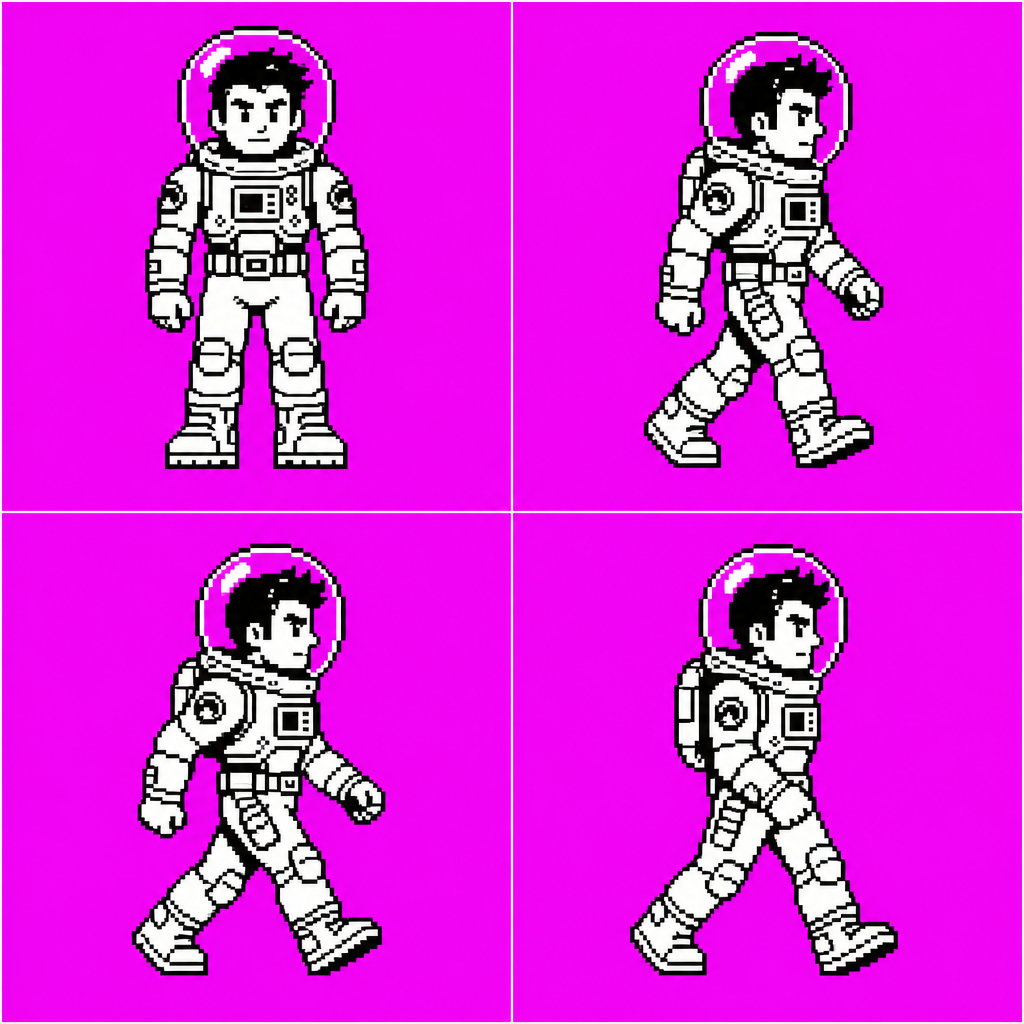
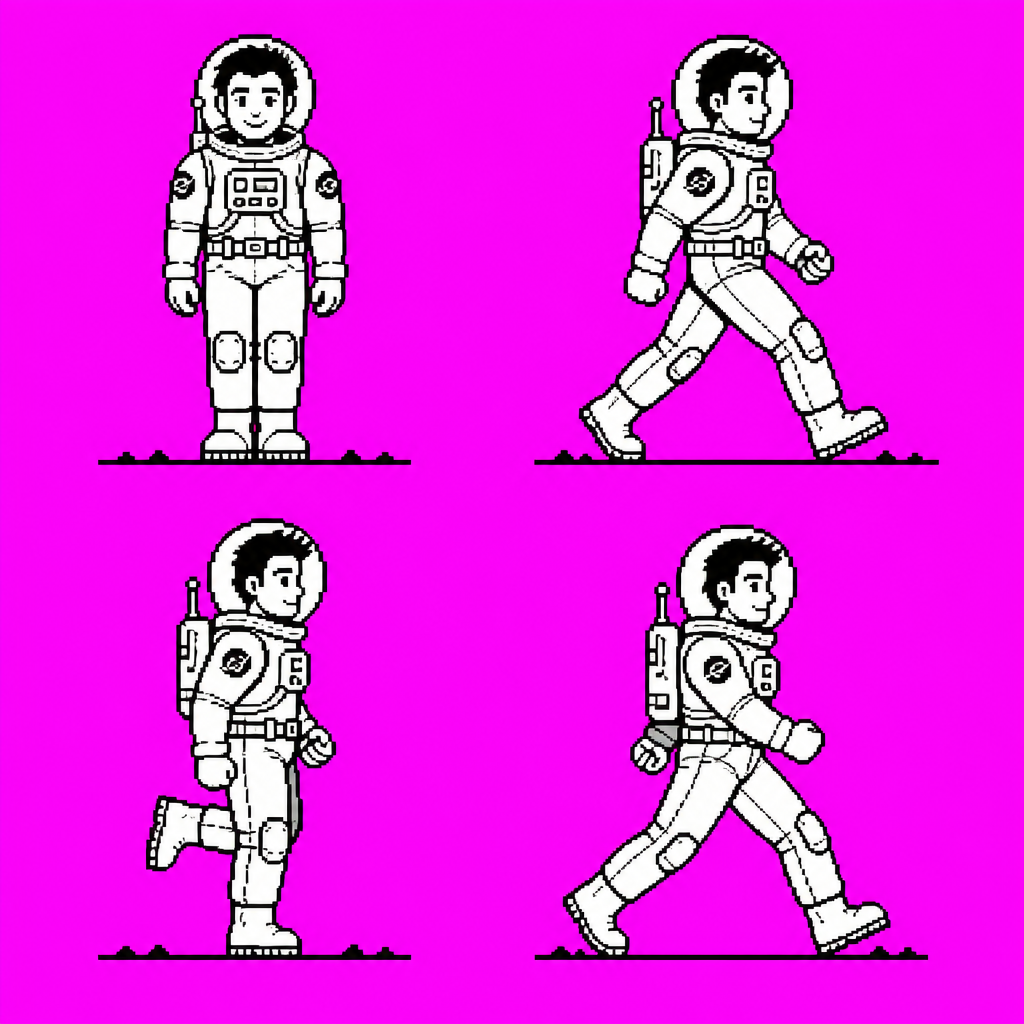
Fix walk animation: regenerate hero sheet with distinct contact/passing poses
New male sheet has real contact and passing leg poses; converter now
strips baseline rows and stray blobs (largest-component filter); walk
cycle ping-pongs 2,3,4,3.

diff --git a/tools/ai_convert.py b/tools/ai_convert.py
@@ -47,6 +47,11 @@ def extract_sprite(cell, target_h):
     w, h = cell.size
     fg = [[not (p[x, y][0] > 150 and p[x, y][2] > 150 and p[x, y][1] < 120)
            for x in range(w)] for y in range(h)]
+    # drop ground/baseline rows the model sometimes draws across the cell
+    for y in range(h):
+        if sum(fg[y]) > w * 0.6:
+            fg[y] = [False] * w
+    keep_largest_component(fg, w, h)
     xs = [x for y in range(h) for x in range(w) if fg[y][x]]
     ys = [y for y in range(h) for x in range(w) if fg[y][x]]
     x0, x1, y0, y1 = min(xs), max(xs), min(ys), max(ys)
@@ -88,6 +93,35 @@ def extract_sprite(cell, target_h):
     for x, y in halo:
         sp[x, y] = (255, 255, 255, 255)
     return spr
+
+
+def keep_largest_component(fg, w, h):
+    """Erase everything but the biggest connected foreground blob (stray
+    props, ground bumps)."""
+    seen = [[False] * w for _ in range(h)]
+    best = []
+    for sy in range(h):
+        for sx in range(w):
+            if fg[sy][sx] and not seen[sy][sx]:
+                comp = []
+                stack = [(sx, sy)]
+                seen[sy][sx] = True
+                while stack:
+                    x, y = stack.pop()
+                    comp.append((x, y))
+                    for dx, dy in ((1, 0), (-1, 0), (0, 1), (0, -1)):
+                        nx, ny = x + dx, y + dy
+                        if 0 <= nx < w and 0 <= ny < h and fg[ny][nx] \
+                                and not seen[ny][nx]:
+                            seen[ny][nx] = True
+                            stack.append((nx, ny))
+                if len(comp) > len(best):
+                    best = comp
+    keep = set(best)
+    for y in range(h):
+        for x in range(w):
+            if fg[y][x] and (x, y) not in keep:
+                fg[y][x] = False
 
 
 def sheet(frames, name):
